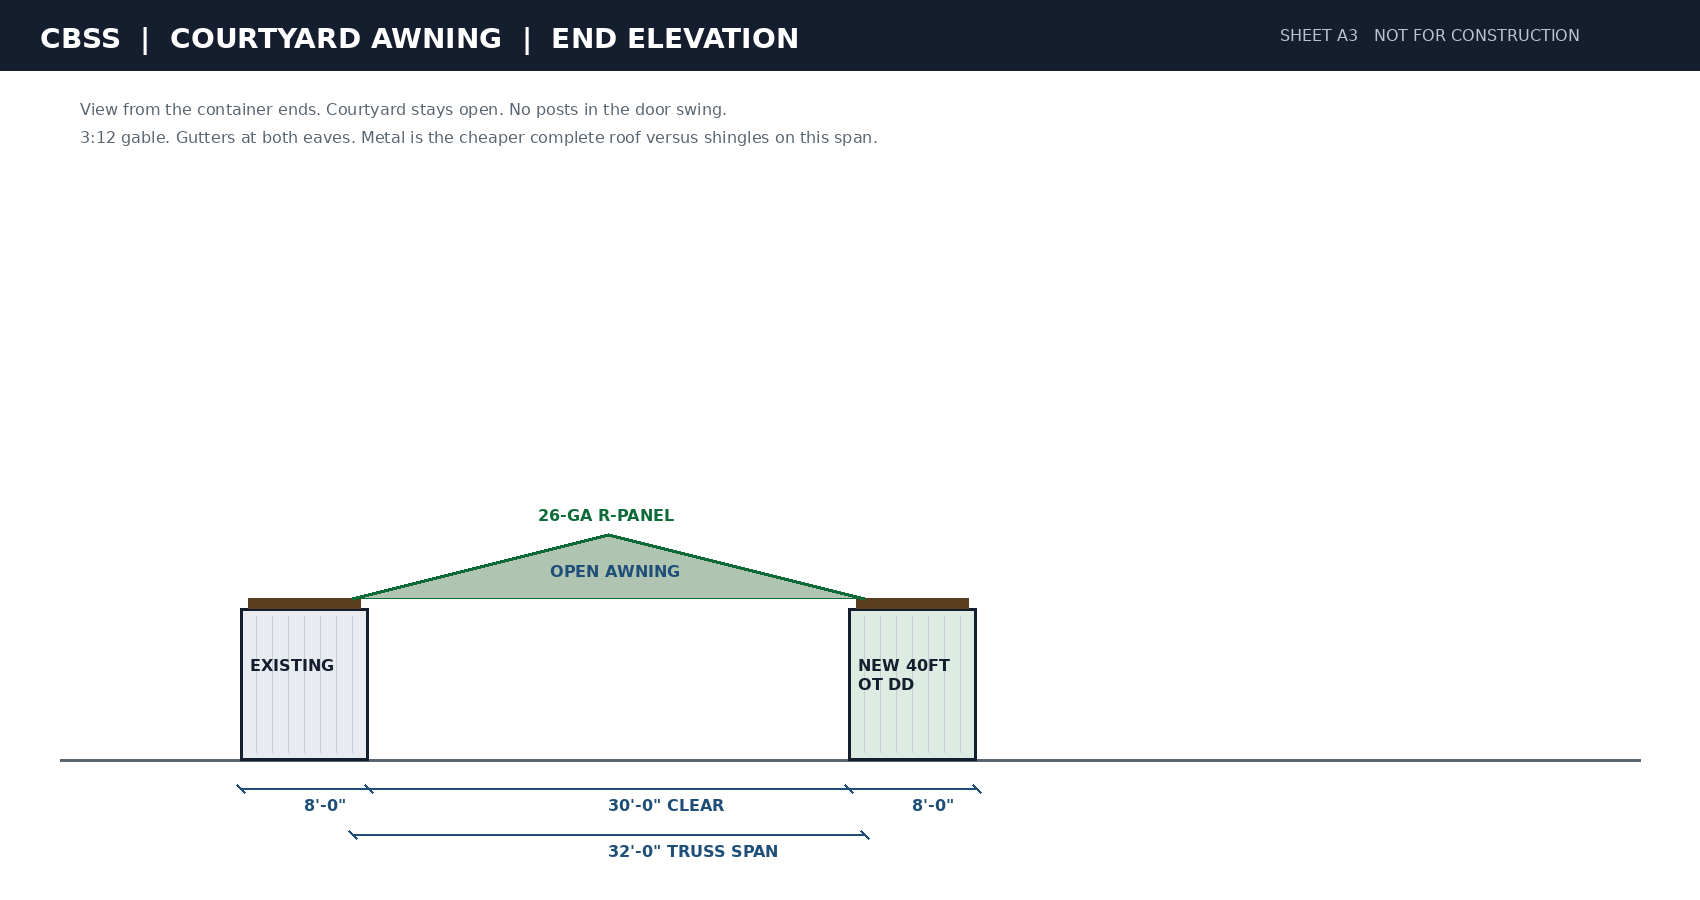
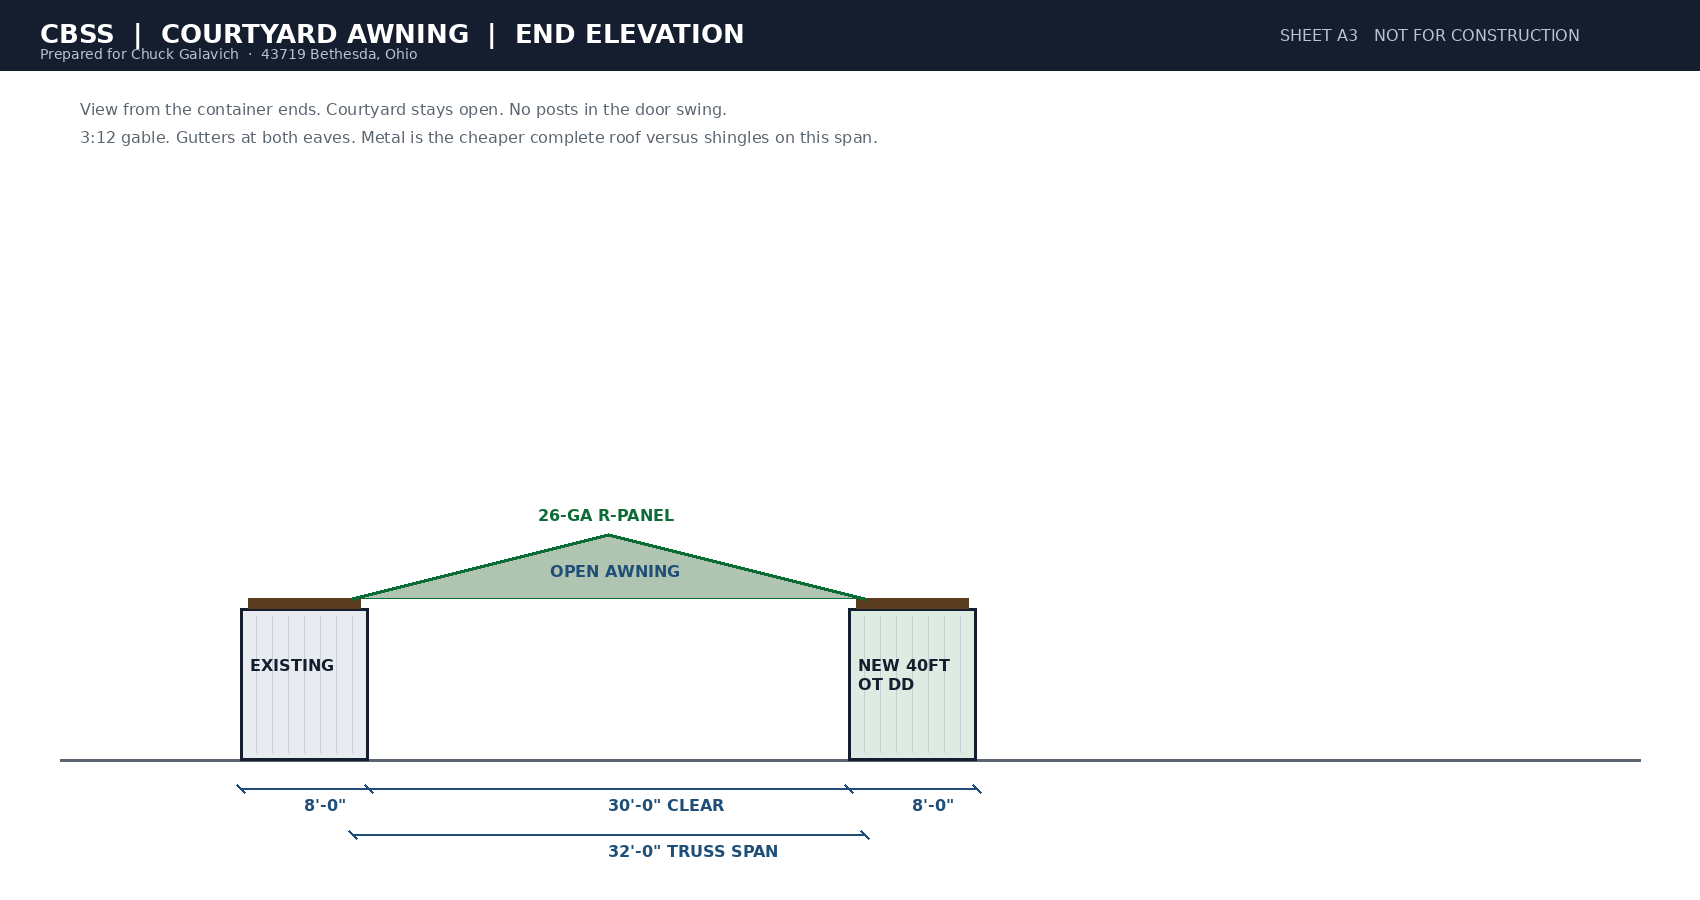
Personalize courtyard awning proposal for Chuck Galavich 43719
Named customer PDF with his phone, email, Bethesda / Belmont County site, and locked ZIP. Bid numbers unchanged.

Changed region(s): [[0.0, 0.0, 0.4676, 0.0622]]

diff --git a/cbss-awning-bid/build_packet.py b/cbss-awning-bid/build_packet.py
@@ -28,6 +28,18 @@ CONTAINER = 4400.00
 STRUCTURE = 27850.00
 TOTAL = CONTAINER + STRUCTURE
 
+CLIENT = {
+    "name": "Chuck Galavich",
+    "first": "Chuck",
+    "zip": "43719",
+    "city": "Bethesda",
+    "county": "Belmont County",
+    "state": "Ohio",
+    "phone": "740-238-0492",
+    "email": "galavichchuck@gmail.com",
+}
+PDF_NAME = "CBSS_Proposal_Chuck_Galavich_43719.pdf"
+
 
 def font(size: int, bold: bool = False) -> ImageFont.FreeTypeFont | ImageFont.ImageFont:
     for name in (
@@ -60,7 +72,8 @@ def draw_plan() -> Path:
     img = Image.new("RGB", (1700, 1280), (255, 255, 255))
     d = ImageDraw.Draw(img)
     d.rectangle((0, 0, 1700, 70), fill=(20, 30, 46))
-    d.text((40, 22), "CBSS  |  COURTYARD AWNING  |  PLAN", fill=(255, 255, 255), font=font(28, True))
+    d.text((40, 18), "CBSS  |  COURTYARD AWNING  |  PLAN", fill=(255, 255, 255), font=font(26, True))
+    d.text((40, 46), f"Prepared for {CLIENT['name']}  ·  {CLIENT['zip']} {CLIENT['city']}, {CLIENT['state']}", fill=(184, 196, 208), font=font(14))
     d.text((1280, 26), "SHEET A1   NOT FOR CONSTRUCTION", fill=(184, 196, 208), font=font(16))
 
     # Scale: 1 ft = 16 px. Leave room under the boxes for both dim strings and notes.
@@ -114,7 +127,8 @@ def draw_section() -> Path:
     img = Image.new("RGB", (1600, 900), (255, 255, 255))
     d = ImageDraw.Draw(img)
     d.rectangle((0, 0, 1600, 70), fill=(20, 30, 46))
-    d.text((40, 22), "CBSS  |  COURTYARD AWNING  |  SECTION", fill=(255, 255, 255), font=font(28, True))
+    d.text((40, 18), "CBSS  |  COURTYARD AWNING  |  SECTION", fill=(255, 255, 255), font=font(26, True))
+    d.text((40, 46), f"Prepared for {CLIENT['name']}  ·  {CLIENT['zip']} {CLIENT['city']}, {CLIENT['state']}", fill=(184, 196, 208), font=font(14))
     d.text((1180, 26), "SHEET A2   NOT FOR CONSTRUCTION", fill=(184, 196, 208), font=font(16))
 
     s = 16
@@ -164,7 +178,8 @@ def draw_elevation() -> Path:
     img = Image.new("RGB", (1700, 900), (255, 255, 255))
     d = ImageDraw.Draw(img)
     d.rectangle((0, 0, 1700, 70), fill=(20, 30, 46))
-    d.text((40, 22), "CBSS  |  COURTYARD AWNING  |  END ELEVATION", fill=(255, 255, 255), font=font(28, True))
+    d.text((40, 18), "CBSS  |  COURTYARD AWNING  |  END ELEVATION", fill=(255, 255, 255), font=font(26, True))
+    d.text((40, 46), f"Prepared for {CLIENT['name']}  ·  {CLIENT['zip']} {CLIENT['city']}, {CLIENT['state']}", fill=(184, 196, 208), font=font(14))
     d.text((1280, 26), "SHEET A3   NOT FOR CONSTRUCTION", fill=(184, 196, 208), font=font(16))
 
     s = 16
@@ -217,7 +232,8 @@ def draw_presentation() -> Path:
     d.rectangle((0, 0, 1600, 520), fill=(210, 224, 232))
     d.rectangle((0, 520, 1600, 900), fill=(176, 186, 168))
     d.rectangle((0, 0, 1600, 64), fill=(20, 30, 46))
-    d.text((40, 18), "CBSS  |  COURTYARD AWNING  |  PRESENTATION", fill=(255, 255, 255), font=font(26, True))
+    d.text((40, 14), "CBSS  |  COURTYARD AWNING  |  PRESENTATION", fill=(255, 255, 255), font=font(24, True))
+    d.text((40, 42), f"Prepared for {CLIENT['name']}  ·  {CLIENT['zip']} {CLIENT['city']}, {CLIENT['state']}", fill=(184, 196, 208), font=font(14))
     d.text((1180, 22), "NOT A CONSTRUCTION DRAWING", fill=(184, 196, 208), font=font(15))
 
     # Simple 3/4 view: two boxes receding, metal roof between.
@@ -372,10 +388,12 @@ def write_takeoff() -> Path:
 
 def build_pdf(plan: Path, section: Path, elevation: Path, presentation: Path) -> Path:
     OUT.mkdir(parents=True, exist_ok=True)
-    pdf_path = OUT / "CBSS_40FT_OneTrip_Courtyard_Awning_Proposal.pdf"
+    pdf_path = OUT / PDF_NAME
     c = canvas.Canvas(str(pdf_path), pagesize=letter)
     w, h = letter
     pages = 8
+    who = CLIENT["name"]
+    site = f"{CLIENT['zip']} {CLIENT['city']}, {CLIENT['state']}  ({CLIENT['county']})"
 
     # 1 cover
     header(c, "Official Proposal", 1, pages)
@@ -388,13 +406,17 @@ def build_pdf(plan: Path, section: Path, elevation: Path, presentation: Path) ->
     c.setFont("Times-Roman", 11)
     c.drawString(36, y, "40FT One-Trip Double Door  +  courtyard awning roof")
     y -= 28
-    y = wrap(c, "Prepared for the client who was quoted $4,400 delivered cash for one 40FT One-Trip Double Door, then asked us to roof across a 30-foot gap to a second unit with a traditional truss roof. Shingles or metal — whichever is cheaper.", 36, y, 540, 11, 15)
+    y = wrap(c, f"Prepared for {who}. We quoted $4,400 delivered cash for one 40FT One-Trip Double Door. Chuck then asked us to roof across a 30-foot gap to a second unit with a traditional truss roof. Shingles or metal — whichever is cheaper.", 36, y, 540, 11, 15)
     y -= 8
     for line in (
+        f"Prepared for: {who}",
+        f"Delivery ZIP: {site}",
+        f"Phone: {CLIENT['phone']}",
+        f"Email: {CLIENT['email']}",
         "Date: 19 August 2026",
         "Prepared by: Christopher Banks, President/Owner",
         "Company: CBGC LLC DBA CBShippingSolutions",
-        "Site: Client to confirm delivery ZIP and that the existing unit is on the ground, parallel, 30 feet clear.",
+        "Site: Two parallel units, 30 feet clear. Existing unit assumed 40FT until we have a photo.",
     ):
         y = wrap(c, line, 36, y, 540, 10, 14)
     y -= 10
@@ -449,7 +471,7 @@ def build_pdf(plan: Path, section: Path, elevation: Path, presentation: Path) ->
         y -= 3
     y -= 8
     y = h2(c, "WHAT THIS IS NOT", y)
-    y = wrap(c, "This is not a building with walls. It is not a reroof of the container tops except at the sleeper and flash. It is not engineered for a snow country or hurricane coast until the ZIP is confirmed. It does not include permits, a site PE stamp beyond the truss-plant package, concrete, electric, plumbing, or moving the existing box.", 36, y, 540, 10, 14)
+    y = wrap(c, f"This is not a building with walls. It is not a reroof of the container tops except at the sleeper and flash. Delivery is {site}. Belmont County ground snow is in the light 20 psf class — the truss plant stamps the package to that local load. This is not a lake-effect or mountain snow upgrade. It does not include permits, a site PE stamp beyond the truss-plant package, concrete, electric, plumbing, or moving the existing box.", 36, y, 540, 10, 14)
     footer(c)
     c.showPage()
 
@@ -524,13 +546,12 @@ def build_pdf(plan: Path, section: Path, elevation: Path, presentation: Path) ->
     y -= 8
     y = h2(c, "NOT IN THIS NUMBER", y)
     for item in (
-        "Permits, impact fees, or a site PE stamp if the county wants more than the truss-plant package.",
+        "Permits, impact fees, or a site PE stamp if Belmont County wants more than the truss-plant package.",
         "Concrete, gravel pad, or moving the existing container.",
         "Electric, lights, or solar.",
         "Walls, roll-up doors, or closing in the courtyard.",
         "Weekend, crane, or off-road delivery.",
-        "Snow-country or high-wind upgrades once the ZIP is known.",
-        "Sales tax if the delivery state charges it on construction labor — billed as incurred.",
+        "Ohio tax, if the state requires it on the container or any part of the work — billed as incurred. It is not inside these cash figures.",
     ):
         y = wrap(c, "•  " + item, 36, y, 540, 10, 14)
         y -= 2
@@ -545,7 +566,7 @@ def build_pdf(plan: Path, section: Path, elevation: Path, presentation: Path) ->
     y = h - 88
     y = h2(c, "SEQUENCE", y)
     for item in (
-        "Client confirms ZIP, photos of the existing box, and that the pad will take a tilt-bed and a lull.",
+        f"{who} sends a photo of the existing box and the 30-foot gap, and confirms the pad will take a tilt-bed and a lull.",
         "We write the container order and collect before the truck.",
         "Box lands parallel, 30 feet clear, doors unobstructed.",
         "Truss package is ordered to the field measure (we verify 30 feet on the ground before we cut).",
@@ -556,7 +577,7 @@ def build_pdf(plan: Path, section: Path, elevation: Path, presentation: Path) ->
         y -= 3
     y -= 8
     y = h2(c, "WHAT WE NEED FROM YOU", y)
-    y = wrap(c, "Delivery ZIP. A photo of the existing unit and the 30-foot gap. Whether that existing box is 20FT or 40FT. How we access the pad. Any county that will want a permit — we will say so before we collect.", 36, y, 540, 10, 14)
+    y = wrap(c, f"ZIP {CLIENT['zip']} is locked. We still need a photo of the existing unit and the 30-foot gap, whether that box is 20FT or 40FT, and how we access the pad. Belmont County may want a permit on a 32-foot span roof — we will say so before we collect.", 36, y, 540, 10, 14)
     y -= 10
     y = h2(c, "CLOSE", y)
     y = wrap(c, "IF you have any questions or concerns do not hesitate to reach out to me using the contact information below.", 36, y, 540, 10, 14)
@@ -588,11 +609,17 @@ def main() -> None:
     presentation = draw_presentation()
     takeoff = write_takeoff()
     pdf = build_pdf(plan, section, elevation, presentation)
+    named = ART / PDF_NAME
+    named.write_bytes(pdf.read_bytes())
     for src in (plan, section, elevation, presentation, takeoff, pdf):
         dest = ART / src.name
         dest.write_bytes(src.read_bytes())
     (ART / "awning_materials_takeoff.csv").write_bytes(takeoff.read_bytes())
-    print(pdf)
+    # Keep a stable generic alias so older links still open the same packet.
+    (OUT / "CBSS_40FT_OneTrip_Courtyard_Awning_Proposal.pdf").write_bytes(pdf.read_bytes())
+    (ART / "CBSS_40FT_OneTrip_Courtyard_Awning_Proposal.pdf").write_bytes(pdf.read_bytes())
+    print(named)
+    print(f"CLIENT {CLIENT['name']} {CLIENT['zip']}")
     print(f"CONTAINER {CONTAINER:.2f}")
     print(f"STRUCTURE {STRUCTURE:.2f}")
     print(f"TOTAL {TOTAL:.2f}")

diff --git a/cbss-awning-bid/README.md b/cbss-awning-bid/README.md
@@ -1,8 +1,10 @@
 # 40FT One-Trip + courtyard awning bid
 
-Client was already quoted **$4,400 delivered cash** for one 40FT One-Trip Double Door. They want that box 30 feet from an existing unit, with a traditional truss roof across the gap.
+Prepared for **Chuck Galavich**, ZIP **43719** (Bethesda, Belmont County, Ohio). Phone 740-238-0492.
 
-This folder builds the drawings, materials takeoff, scope, and official proposal.
+He was already quoted **$4,400 delivered cash** for one 40FT One-Trip Double Door. He wants that box 30 feet from an existing unit, with a traditional truss roof across the gap.
+
+This folder builds the drawings, materials takeoff, scope, and official proposal. Download: `output/CBSS_Proposal_Chuck_Galavich_43719.pdf`
 
 ## Bid (complete cash)
 
